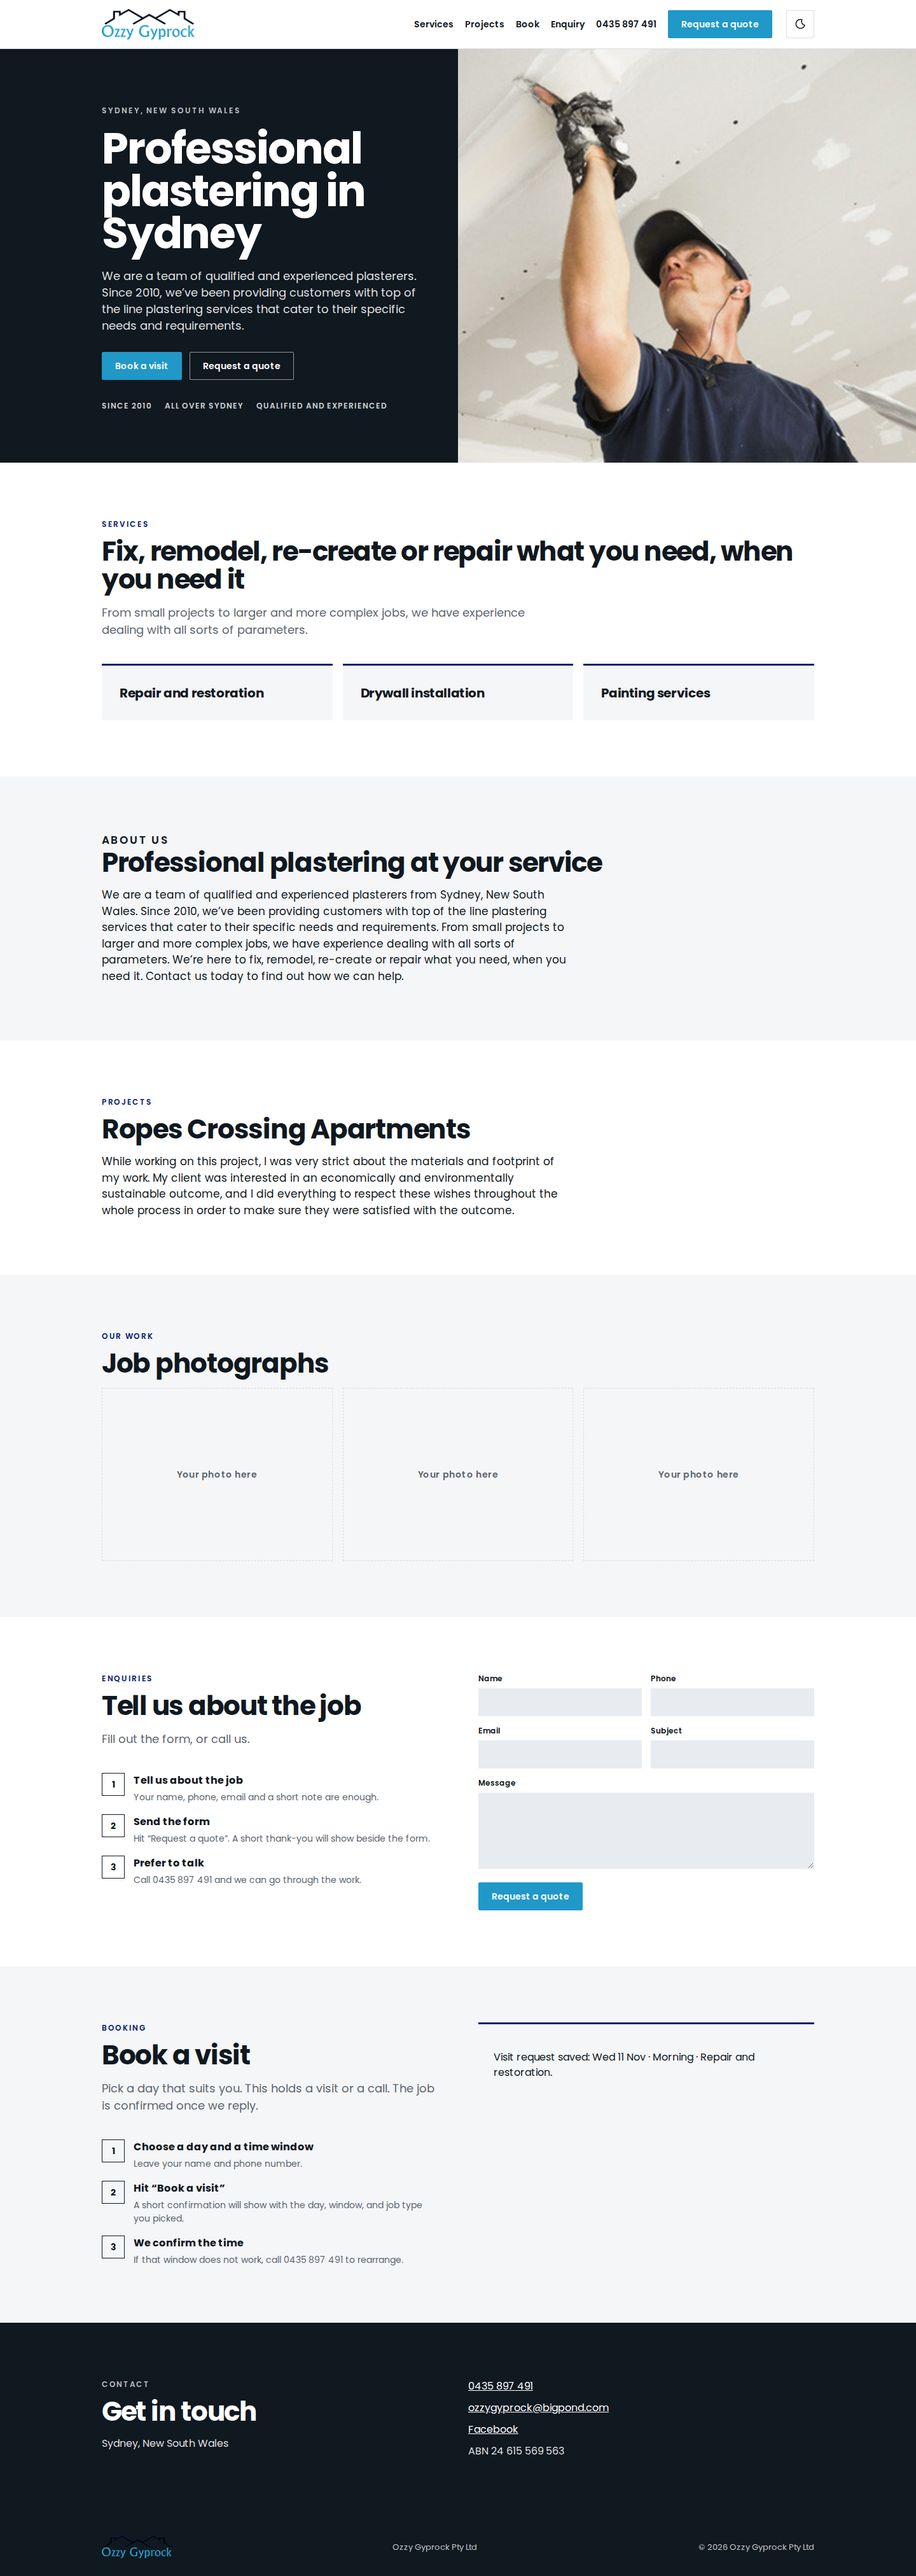
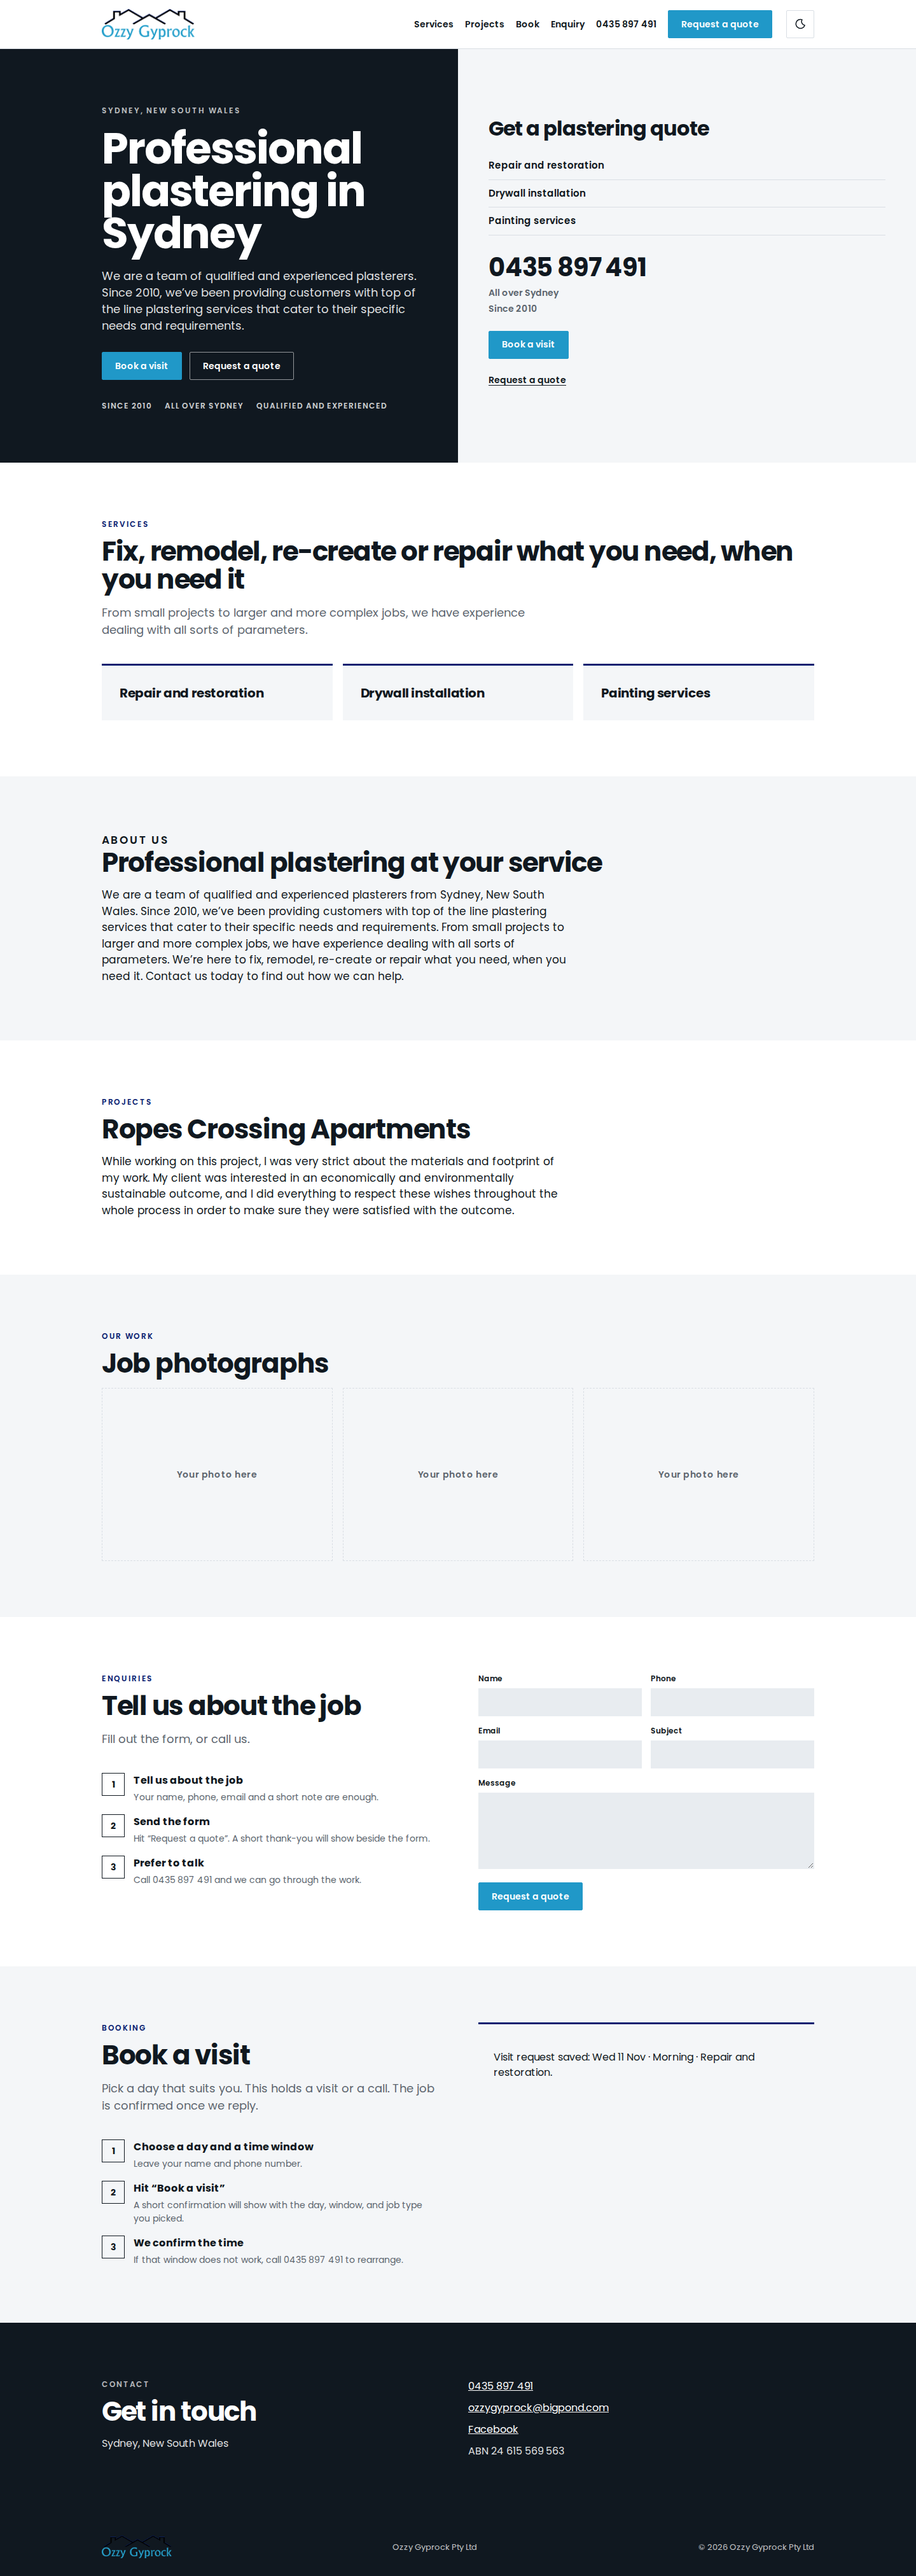
Replace the stock hero photo with a quote card.
Removes work-ceiling.png and fills the desktop hero with published services, phone, and CTAs; the card stays hidden at 390.

Changed region(s): [[0.5, 0.0, 1.0, 0.1868]]

diff --git a/wix-embed.html b/wix-embed.html
@@ -123,11 +123,62 @@ html:not([data-theme="dark"]) .icon-sun{display:none}
   margin:0;
   padding:88px 40px 80px max(24px, calc((100vw - var(--max)) / 2));
 }
-.hero-photo{position:relative;min-height:100%;overflow:hidden}
-.hero-photo img{
-  position:absolute;inset:0;width:100%;height:100%;
-  object-fit:cover;object-position:center 35%;
+.hero-card{
+  background:#F4F6F8;
+  color:#101820;
+  padding:56px 48px;
+  display:flex;
+  flex-direction:column;
+  justify-content:center;
+  min-width:0;
 }
+.hero-card h2{
+  font-size:clamp(24px,2.4vw,32px);
+  line-height:1.1;
+  letter-spacing:-.03em;
+  margin:0 0 20px;
+  color:#101820;
+}
+.hero-card-services{list-style:none;margin:0 0 28px;padding:0}
+.hero-card-services li{
+  padding:10px 0;
+  border-bottom:1px solid #D9DEE4;
+  font-size:15px;
+  font-weight:600;
+  color:#101820;
+}
+.hero-card-phone{
+  display:inline-flex;
+  align-items:center;
+  min-height:44px;
+  margin:0 0 8px;
+  font-size:clamp(28px,3vw,40px);
+  font-weight:700;
+  letter-spacing:-.03em;
+  line-height:1.1;
+  color:#101820;
+  text-decoration:none;
+}
+.hero-card-phone:hover{color:#082070}
+.hero-card-meta{
+  margin:0 0 4px;
+  font-size:14px;
+  font-weight:600;
+  color:#5C656E;
+}
+.hero-card .btn-blue{align-self:flex-start;margin:20px 0 12px}
+.hero-card-quote{
+  color:#101820;
+  font-size:14px;
+  font-weight:600;
+  text-decoration:underline;
+  text-underline-offset:3px;
+  min-height:44px;
+  display:inline-flex;
+  align-items:center;
+  align-self:flex-start;
+}
+.hero-card-quote:hover{color:#082070}
 .eyebrow{font-size:12px;letter-spacing:.16em;text-transform:uppercase;font-weight:600;color:rgba(255,255,255,.72);margin:0 0 18px}
 .hero h1{font-size:clamp(40px,5.4vw,68px);line-height:.98;font-weight:700;letter-spacing:-.03em;margin:0 0 20px;max-width:14ch}
 .hero p.lead{font-size:18px;line-height:1.45;color:rgba(255,255,255,.88);margin:0 0 28px;max-width:38em}
@@ -229,7 +280,7 @@ footer.site img{height:36px;width:auto}
   .cards,.slots,.split,.contact-grid{grid-template-columns:1fr}
   form.quote-form,form.book-form{grid-template-columns:1fr}
   .hero-split{display:block}
-  .hero-photo{display:none}
+  .hero-card{display:none}
   .hero-copy{width:min(var(--max),calc(100% - 48px));margin:0 auto;padding:64px 0 56px}
 }
 @media (max-width:600px){
@@ -339,9 +390,19 @@ footer.site img{height:36px;width:auto}
           <li>Qualified and experienced</li>
         </ul>
       </div>
-      <div class="hero-photo">
-        <img src="https://cromservices.github.io/ozzy-gyprock-preview/assets/work-ceiling.png" alt="Plastering a ceiling" width="980" height="380">
-      </div>
+      <aside class="hero-card" aria-label="Get a plastering quote">
+        <h2>Get a plastering quote</h2>
+        <ul class="hero-card-services">
+          <li>Repair and restoration</li>
+          <li>Drywall installation</li>
+          <li>Painting services</li>
+        </ul>
+        <a class="hero-card-phone" href="tel:+61435897491">0435 897 491</a>
+        <p class="hero-card-meta">All over Sydney</p>
+        <p class="hero-card-meta">Since 2010</p>
+        <a class="btn btn-blue" href="#book">Book a visit</a>
+        <a class="hero-card-quote" href="#enquiry">Request a quote</a>
+      </aside>
     </div>
   </section>
 

diff --git a/styles.css b/styles.css
@@ -111,11 +111,62 @@ html:not([data-theme="dark"]) .icon-sun{display:none}
   margin:0;
   padding:88px 40px 80px max(24px, calc((100vw - var(--max)) / 2));
 }
-.hero-photo{position:relative;min-height:100%;overflow:hidden}
-.hero-photo img{
-  position:absolute;inset:0;width:100%;height:100%;
-  object-fit:cover;object-position:center 35%;
+.hero-card{
+  background:#F4F6F8;
+  color:#101820;
+  padding:56px 48px;
+  display:flex;
+  flex-direction:column;
+  justify-content:center;
+  min-width:0;
 }
+.hero-card h2{
+  font-size:clamp(24px,2.4vw,32px);
+  line-height:1.1;
+  letter-spacing:-.03em;
+  margin:0 0 20px;
+  color:#101820;
+}
+.hero-card-services{list-style:none;margin:0 0 28px;padding:0}
+.hero-card-services li{
+  padding:10px 0;
+  border-bottom:1px solid #D9DEE4;
+  font-size:15px;
+  font-weight:600;
+  color:#101820;
+}
+.hero-card-phone{
+  display:inline-flex;
+  align-items:center;
+  min-height:44px;
+  margin:0 0 8px;
+  font-size:clamp(28px,3vw,40px);
+  font-weight:700;
+  letter-spacing:-.03em;
+  line-height:1.1;
+  color:#101820;
+  text-decoration:none;
+}
+.hero-card-phone:hover{color:#082070}
+.hero-card-meta{
+  margin:0 0 4px;
+  font-size:14px;
+  font-weight:600;
+  color:#5C656E;
+}
+.hero-card .btn-blue{align-self:flex-start;margin:20px 0 12px}
+.hero-card-quote{
+  color:#101820;
+  font-size:14px;
+  font-weight:600;
+  text-decoration:underline;
+  text-underline-offset:3px;
+  min-height:44px;
+  display:inline-flex;
+  align-items:center;
+  align-self:flex-start;
+}
+.hero-card-quote:hover{color:#082070}
 .eyebrow{font-size:12px;letter-spacing:.16em;text-transform:uppercase;font-weight:600;color:rgba(255,255,255,.72);margin:0 0 18px}
 .hero h1{font-size:clamp(40px,5.4vw,68px);line-height:.98;font-weight:700;letter-spacing:-.03em;margin:0 0 20px;max-width:14ch}
 .hero p.lead{font-size:18px;line-height:1.45;color:rgba(255,255,255,.88);margin:0 0 28px;max-width:38em}
@@ -217,7 +268,7 @@ footer.site img{height:36px;width:auto}
   .cards,.slots,.split,.contact-grid{grid-template-columns:1fr}
   form.quote-form,form.book-form{grid-template-columns:1fr}
   .hero-split{display:block}
-  .hero-photo{display:none}
+  .hero-card{display:none}
   .hero-copy{width:min(var(--max),calc(100% - 48px));margin:0 auto;padding:64px 0 56px}
 }
 @media (max-width:600px){

diff --git a/index.html b/index.html
@@ -65,9 +65,19 @@
           <li>Qualified and experienced</li>
         </ul>
       </div>
-      <div class="hero-photo">
-        <img src="assets/work-ceiling.png" alt="Plastering a ceiling" width="980" height="380">
-      </div>
+      <aside class="hero-card" aria-label="Get a plastering quote">
+        <h2>Get a plastering quote</h2>
+        <ul class="hero-card-services">
+          <li>Repair and restoration</li>
+          <li>Drywall installation</li>
+          <li>Painting services</li>
+        </ul>
+        <a class="hero-card-phone" href="tel:+61435897491">0435 897 491</a>
+        <p class="hero-card-meta">All over Sydney</p>
+        <p class="hero-card-meta">Since 2010</p>
+        <a class="btn btn-blue" href="#book">Book a visit</a>
+        <a class="hero-card-quote" href="#enquiry">Request a quote</a>
+      </aside>
     </div>
   </section>
 
